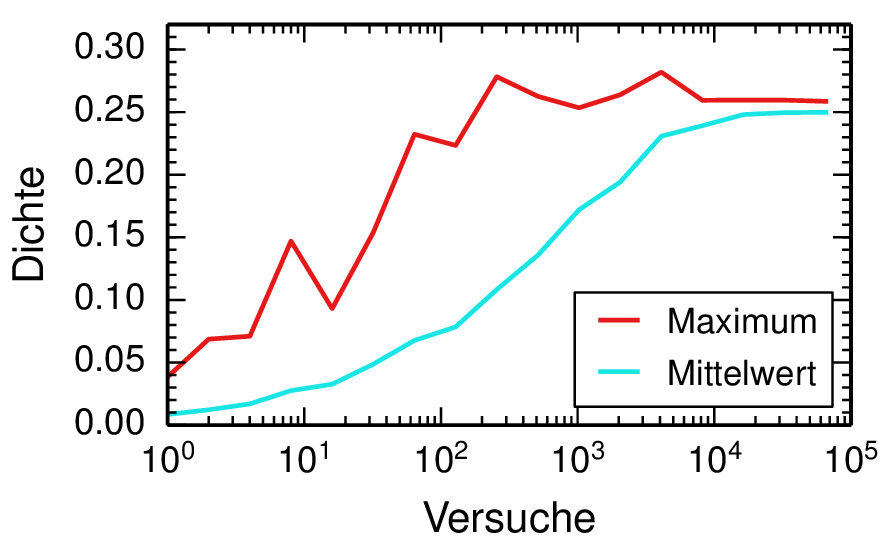
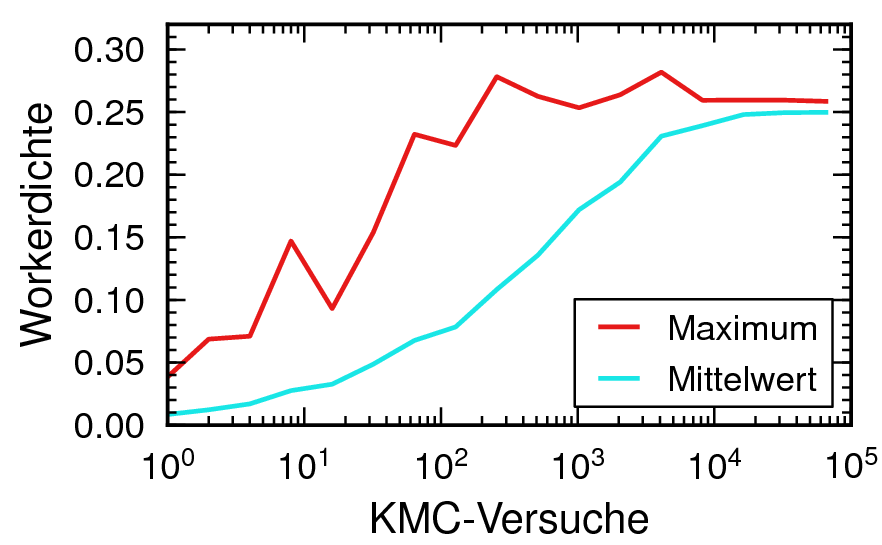
workerdichten-Abschätzung ergänzt

diff --git a/appendix_runtime.tex b/appendix_runtime.tex
@@ -35,11 +35,6 @@ Die Erhöhung von $w_\text{MD}$ hat umfangreichere Einflüsse und verursacht ein
 Somit wird $p_\text{max}$ für $w_\text{sim} < w_\text{eff}$ verringert und für $w_\text{sim} > w_\text{eff}$ erhöht.
 Da mit der Vergrößerung der MD-Boxen auch die gesamte Laufzeit nahezu proportional skaliert (Abbildung~\ref{fig:tpother}), wird $w_\text{MD}$ meistens minimal gewählt.
 
-\section{Abschätzung der maximalen Workerdichte per Random Sequential Adsorption}
-Bei Random Sequential Adsorption (RSA) werden beliebige Objekte nichtüberlappend an zufälligen Positionen auf einer Oberfläche verteilt, bis kein weiteres Objekt platziert werden kann.
-Die Verteilung der Worker auf der Oberfläche geschieht auf eine ähnliche Weise, sodass als Grenzwert der Workerdichte \SI{56.2}{\percent}\cite{brosilow_random_1991} angegeben werden kann.
-Da überlappende MD-Boxen in Parsivald nicht komplett abgelehnt werden, sondern ihre Berechnung nur bis zum Abschluss des überdeckten Ereignisses zurück gestellt wird und sich so ein kompletter Abhängigkeitsbaum bildet\cite{lorenz_entwicklung_2012}, liegt die Workerdichte typischerweise unterhalb dieses Wertes\todo{maximale Workerdichte plotten?}.
-
 \begin{figure}[p]
 
   \captionsetup[subfigure]{singlelinecheck=false}
@@ -71,5 +66,34 @@ Da überlappende MD-Boxen in Parsivald nicht komplett abgelehnt werden, sondern 
 
   \caption{Einfluss von $\rho_\text{worker}$ und $w_\text{MD}$ auf die Laufzeit $T_p$}
   \label{fig:tpother}
+
+\end{figure}
+
+\clearpage
+
+\section{Abschätzung der maximalen Workerdichte per Random Sequential Adsorption}
+Bei Random Sequential Adsorption (RSA) werden geometrische Objekte nichtüberlappend an zufälligen Positionen in einem Raum verteilt, bis kein weiteres Objekt platziert werden kann.
+Die Verteilung der quadratischen Worker auf der Oberfläche geschieht auf eine ähnliche Weise, sodass als Grenzwert der Workerdichte \SI{56.2}{\percent}\cite{brosilow_random_1991} angegeben werden kann.
+
+Da Parsivald die Ereignisorte mit KMC-Methoden wählt, muss die zeitliche Reihenfolge der Ereignisse eingehalten werden, weshalb die überdeckenden Ereignisse nicht verworfen werden, sondern bis zum Abschluss des überdeckten Ereignisses zurück gestellt werden und sich so ein kompletter Abhängigkeitsbaum aufbaut, wie er in meiner Bachelorarbeit wird\cite{lorenz_entwicklung_2012}.
+Dadurch kollidieren die MD-Boxen zurückgestellter Ereignisse mit nachfolgenden Ereignissen, welche wiederum zurückgestellt werden müssen.
+Somit reduziert sich das Maximum der Workerdichte für große Simulationsräume auf den Grenzwert von \SI{25.95}{\percent} (Abbildung~\ref{fig:rsamaxdensity}).
+Dieser Wert wurde über eine modifizierte RSA-Simulation ermittelt, die auf diese Parsivald-Methode der Ereignisauswahl und -Durchführung angepasst wurde.
+
+KMC-Ereignisse werden in Parsivald für geringe Zeiträume durch einen trivialen Warteschlangen-Algorithmus vorausberechnet, um eine hohe Parallelisierbarkeit zu ermöglichen.
+Um häufige Revisionen der Ereignisse und damit verbundene Leistungseinbußen zu vermeiden, wird die Tiefe der Abhängigkeitsbäume der Ereignisse beschränkt, was sich in einer verminderten Zahl von Versuchen zur Erzeugung eines neuen KMC-Ereignisses äußert.
+Im Gegenzug sinkt damit die Workerdichte auf die für Gold-PVD und Kupfer-PVD in den Abschnitten~\ref{goldpvd} und~\ref{copperpvd} beobachteten Werte von \SIrange{10}{20}{\percent}.
+
+\vspace{2em}
+
+\begin{figure}[h]
+  \centering
+  \includegraphics[width=10cm]{rsa_maxdensity}
+
+  \caption[Abschätzung der maximalen Workerdichte ]{
+    Abschätzung der maximalen Workerdichte durch eine modifizierte RSA-Simulation.
+    Als Grenzwert für viele KMC-Versuche ergibt sich \SI{25.95}{\percent}
+  }
+  \label{fig:rsamaxdensity}
 
 \end{figure}

diff --git a/runtime.tex b/runtime.tex
@@ -153,7 +153,7 @@ Unter Optimierung des Hostprozesses zu $T_\text{E} = \SI{3}{\milli\second}$ sind
     \includegraphics[width=\textwidth]{maxsizebymdtime}
   \end{subfigure}
 
-  \caption{Einfluss der MD-Laufzeit auf die maximale Workerdichte und das Maximum der Simulationsgröße für effiziente Rechnungen ($\rho_\text{worker} > \SI{10}{\percent}$)}
+  \caption[$\rho_\text{worker}$ und $w_\text{eff}$ in Abhängigkeit von $T_\text{MD}$]{Einfluss der MD-Laufzeit auf die maximale Workerdichte und das Maximum der Simulationsgröße für effiziente Rechnungen ($\rho_\text{worker} > \SI{10}{\percent}$)}
   \label{fig:densitymaxsize}
 
 \end{figure}
@@ -174,7 +174,7 @@ Die maximale Zahl der Prozesse in kleinen Räumen wird hingegen ausschließlich 
     \includegraphics[width=\textwidth]{workersbykmctime}
   \end{subfigure}
 
-  \caption{Einfluss der Ereignis-Laufzeit $T_\text{E}$ und der MD-Laufzeit $T_\text{MD}$ auf die maximale Zahl paralleler Prozesse $p_\text{max}$}
+  \caption[$p_\text{max}$ in Abhängigkeit von $T_\text{E}$ und $T_\text{MD}$]{Einfluss der Ereignis-Laufzeit $T_\text{E}$ und der MD-Laufzeit $T_\text{MD}$ auf die maximale Zahl paralleler Prozesse $p_\text{max}$}
   \label{fig:workersbytime}
 
 \end{figure}
@@ -196,7 +196,7 @@ Mit der MD-Zeit steigt also die maximale Zahl der Worker linear, wodurch mehr Er
     \includegraphics[width=\textwidth]{runtimebykmctime}
   \end{subfigure}
 
-  \caption{Einfluss der Ereignis-Laufzeit $T_\text{E}$ und der MD-Laufzeit $T_\text{MD}$ auf die minimale Laufzeit $T_\infty$ einer Parsivald-Simulation}
+  \caption[$T_\infty$ in Abhängigkeit von $T_\text{E}$ und $T_\text{MD}$]{Einfluss der Ereignis-Laufzeit $T_\text{E}$ und der MD-Laufzeit $T_\text{MD}$ auf die minimale Laufzeit $T_\infty$ einer Parsivald-Simulation}
   \label{fig:runtimebytime}
 
 \end{figure}

diff --git a/parsivald.tex b/parsivald.tex
@@ -19,7 +19,7 @@ Durch die Nutzung massiver Parallelisierung werden zudem atomistische Simulation
   \centering
   \def\svgwidth{\textwidth}
   \input{img/parsivald-schema-flat.pdf_tex}
-  \caption{Simulation einer Adsorption in Parsivald, verteilt auf KMC und MD}
+  \caption[Schema einer Adsorption in Parsivald]{Schema einer Adsorption in Parsivald, verteilt auf KMC und MD}
   \label{fig:parsivald-schema}
 \end{figure}
 
@@ -32,7 +32,7 @@ Die MD-Simulation führt in der Regel eine Relaxierung der Oberfläche im kanoni
   \centering
   \def\svgwidth{\textwidth}
   \input{img/parsivald-stephierarchy.pdf_tex}
-  \caption[Funktionsweise des Parsivald-Programmes]{
+  \caption[Schema der Funktionsweise des Parsivald-Programmes]{
     Funktionsweise des Parsivald-Programmes.
     Event-Typen unterscheiden sich durch die MD-Simulation (Relaxation, Reaktion) oder das Precursorgas.\\
     Siehe auch Abbildung~\ref{fig:parsivald-modes}.
@@ -84,8 +84,8 @@ Die Ereignisraten ergeben sich für PVD-Prozesse aus der Adsorptionsrate der Ato
     \input{img/parsivald-modes-pvd.pdf_tex}
     \subcaption{PVD-Modus}
   \end{subfigure}
-  \caption[Prozesszyklen für ALD, CVD und PVD]{
-    Prozesszyklen für ALD, CVD und PVD.
+  \caption[Parsivald-Zyklen für ALD, CVD und PVD]{
+    Parsivald-Zyklen für ALD, CVD und PVD.
     Atomistische und statistische Ausgaben erfolgen nach jedem Schritt.
     ALD (a) nutzt einen Schritt pro Halbzyklus.
   }

diff --git a/datastructures.tex b/datastructures.tex
@@ -94,7 +94,7 @@ Theoretisch sind mit Access Caching, Bitweiser Adressierung, Surface Flagging od
 \begin{figure}[t]
   \centering
   \includegraphics[width=\textwidth]{octree}
-  \caption[Veranschaulichung der Funktionsweise eines Octrees]{
+  \caption[Schema der Funktionsweise eines Octrees]{
     Quadtree zur Veranschaulichung der Funktionsweise eines Octrees:
     Räumliche Unterteilung eines Raumes (l) mit zugehörigem Baum von Zellen (r).
   }
@@ -135,7 +135,7 @@ Delaunay-Triangulationen werden noch nicht direkt im KMC-Algorithmus für Off-La
   \centering
   \def\svgwidth{\textwidth}
   \input{img/delaunay.pdf_tex}
-  \caption[Beispiel des Delaunay-Kriteriums]{
+  \caption[Schema des Delaunay-Kriteriums]{
     In der Delaunay-Triangulation (c) einer Punktwolke (a) dürfen sich keine weiteren Punkte im Umkreis jedes Simplexes (b) befinden
   }
   \label{fig:delaunay}
@@ -185,7 +185,7 @@ Dabei sind Anwendungen auf auch periodische und teilperiodische Räume möglich.
       \label{fig:delaunay-alpha-d}
     \end{subfigure}
   }
-  \caption[Bestimmung der Oberfläche per Delaunay-Triangulation]{
+  \caption[Delaunay-Triangulation: Konvexe Hülle und Alpha-Form]{
     Bestimmung der Oberfläche per Delaunay-Triangulation.
     Die Alpha-Form in (d) trianguliert auch Ausreißer-Punkte, zählt sie aber ebenfalls nicht zur Hülle
   }

diff --git a/results.tex b/results.tex
@@ -10,12 +10,12 @@ Danach werden Kupfer-Nickel-Multi\-lagen\-systeme in Abschnitt~\ref{multilayer} 
 In Abschnitt~\ref{siliconpvd} werden dann Silizium-PVD-Systeme mit dem Ziel der Abscheidung nichtmetallischer Schichten auf Porösität und Wachstum amorpher Strukturen untersucht.
 Zuletzt kehrt Abschnitt~\ref{aluminaald} kurz zum Thema der Bachelorarbeit zurück und untersucht mit MD-Methoden die Stabilität von TMA und Wasser als Precursoren der \ce{Al2O3}-ALD sowie die Hydroxylierung einer Aluminiumoxid-Oberfläche durch Wassermoleküle.
 
-%% \input{goldpvd}
-%% \clearpage
-%% \input{copperpvd}
-%% \clearpage
-%% \input{multilayer}
-%% \clearpage
-%% \input{siliconpvd}
-%% \clearpage
-%% \input{aluminaald}
+\input{goldpvd}
+\clearpage
+\input{copperpvd}
+\clearpage
+\input{multilayer}
+\clearpage
+\input{siliconpvd}
+\clearpage
+\input{aluminaald}

diff --git a/contents.tex b/contents.tex
@@ -149,6 +149,7 @@ $\tau$               & Dämpfungszeit von Thermostaten                          
 $\tau_p$             & Dämpfungszeit von Barostaten                                        \\
 $T_1$                & Serielle Laufzeit einer Rechnung                                    \\
 $T_p$                & Parallele Laufzeit einer Rechnung für $p$ Prozesse                  \\
+$T_\infty$           & Minimale Laufzeit einer parallelen Rechnung                         \\
 $T$                  & Temperatur                                                          \\
 $T_\text{E}$         & Laufzeit zur Auswahl eines KMC-Ereignisses                          \\
 $T_\text{MD}$        & Laufzeit der MD-Simulation eines Ereignisses                        \\

diff --git a/kmc.tex b/kmc.tex
@@ -38,8 +38,8 @@ Abbildung~\ref{fig:kmctree} zeigt zur Veranschaulichung ein generisches Beispiel
   \def\svgwidth{14cm}
   \input{img/kmc_tree.pdf_tex}
 
-  \caption[Exemplarischer Verlauf einer KMC-Simulation]{
-    Exemplarischer Verlauf einer KMC-Simulation:
+  \caption[Schematische Darstellung der KMC-Methode]{
+    Schematische Darstellung der KMC-Methode:
     Ereignisse $E_i$ werden in jedem Schritt $n$ zufällig ausgewählt, um eine Folge von Zuständen $X_n$ zu erhalten.
   }
 

diff --git a/depositions.tex b/depositions.tex
@@ -110,7 +110,7 @@ Alle Prozesse finden in speziellen Abscheidungskammern oder Reaktoren statt, üb
     }
   }
 
-  \caption[Arten von Abscheidungskammern]{
+  \caption[Arten von Abscheidungskammern für PVD, CVD und ALD]{
     Arten von Abscheidungskammern für PVD, CVD und ALD\cite{granneman_batch_2007}.
   }
   \label{fig:reactors}

diff --git a/masterthesis.tex b/masterthesis.tex
@@ -3,7 +3,7 @@
 %% document-wide settings %%
 %%%%%%%%%%%%%%%%%%%%%%%%%%%%
 \draftmodetrue
-\testonlytrue
+%% \testonlytrue
 %% \colortblfixfalse
 %% \paperonlytrue
 %%%%%%%%%%%%%%%%%%%%%%%%%%%%
